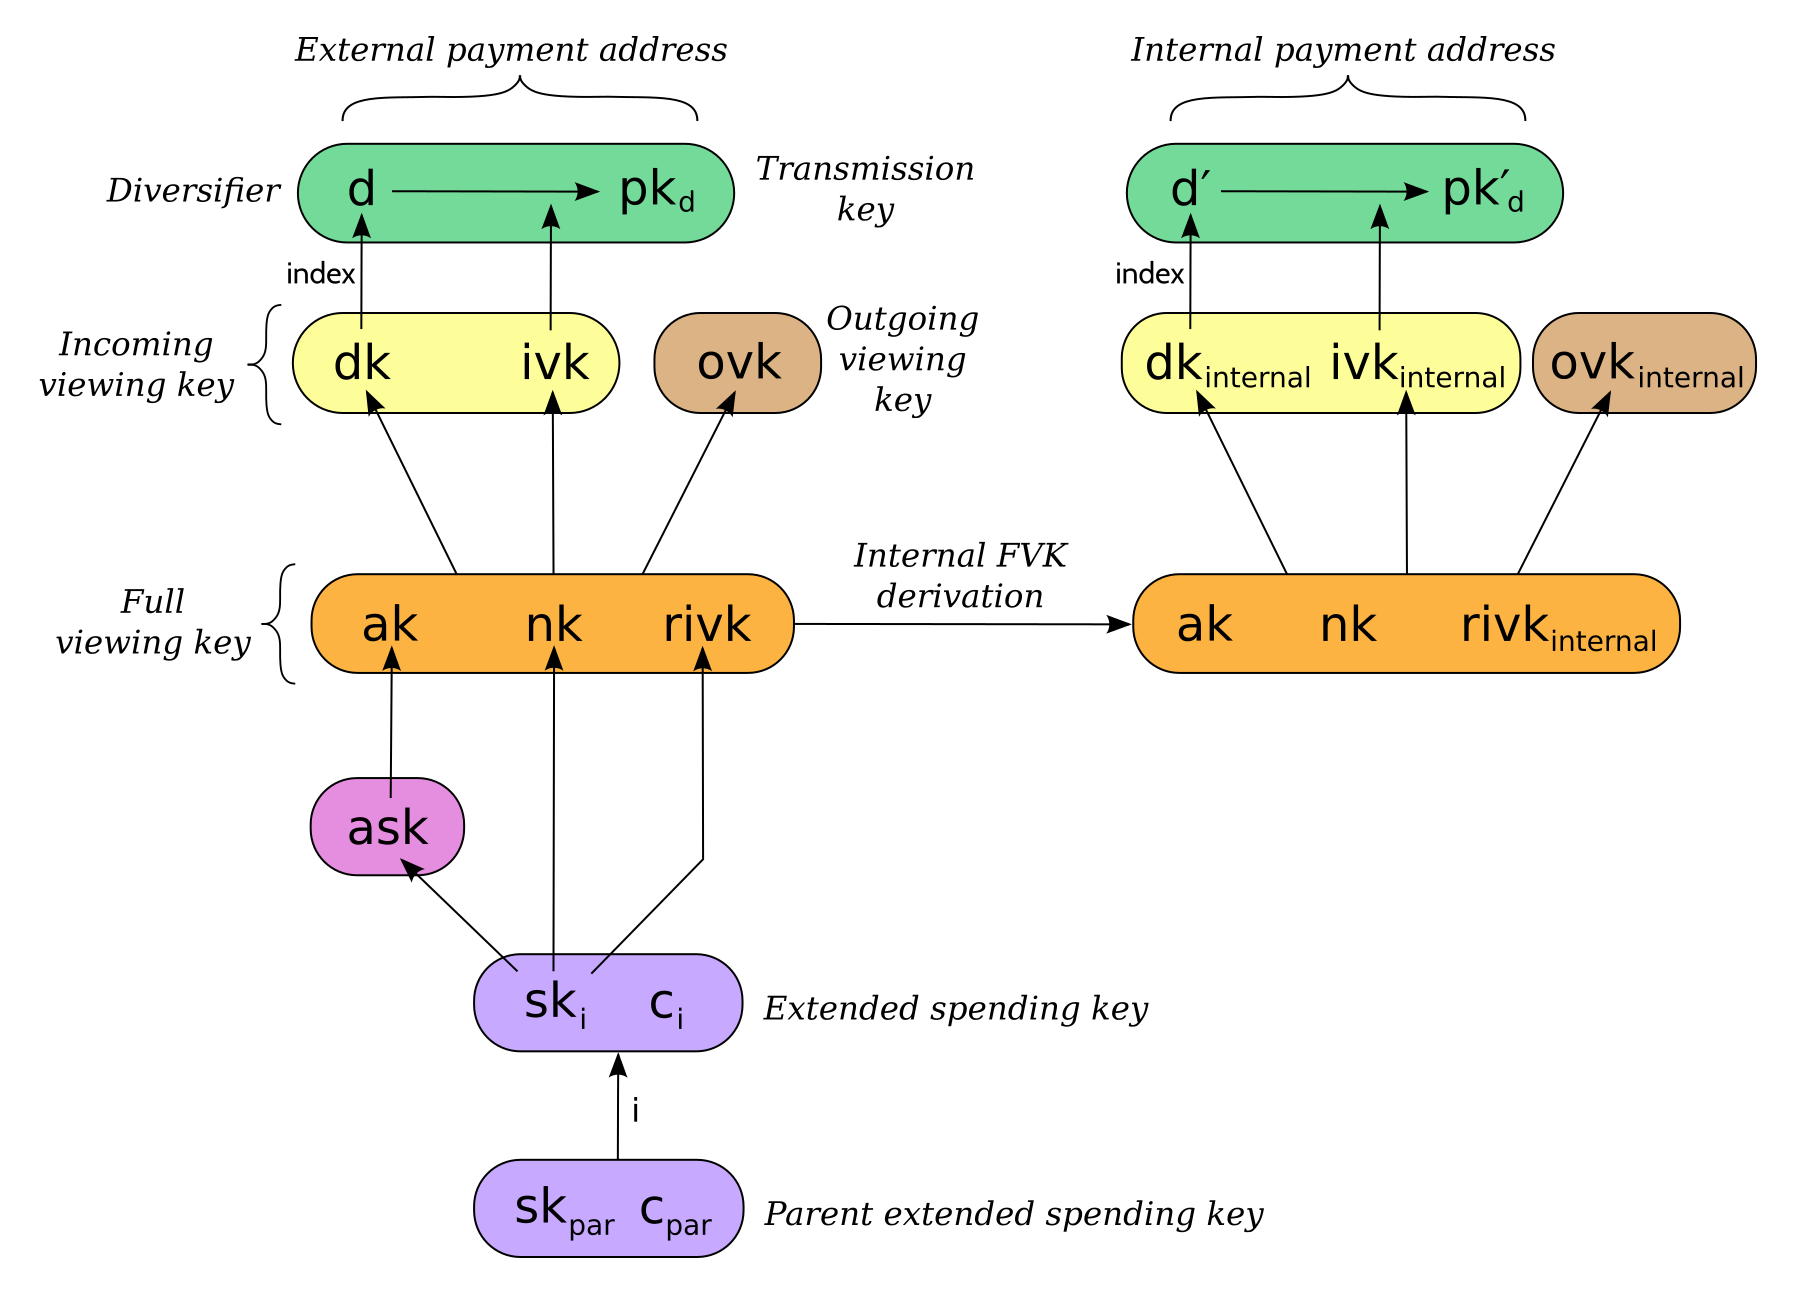
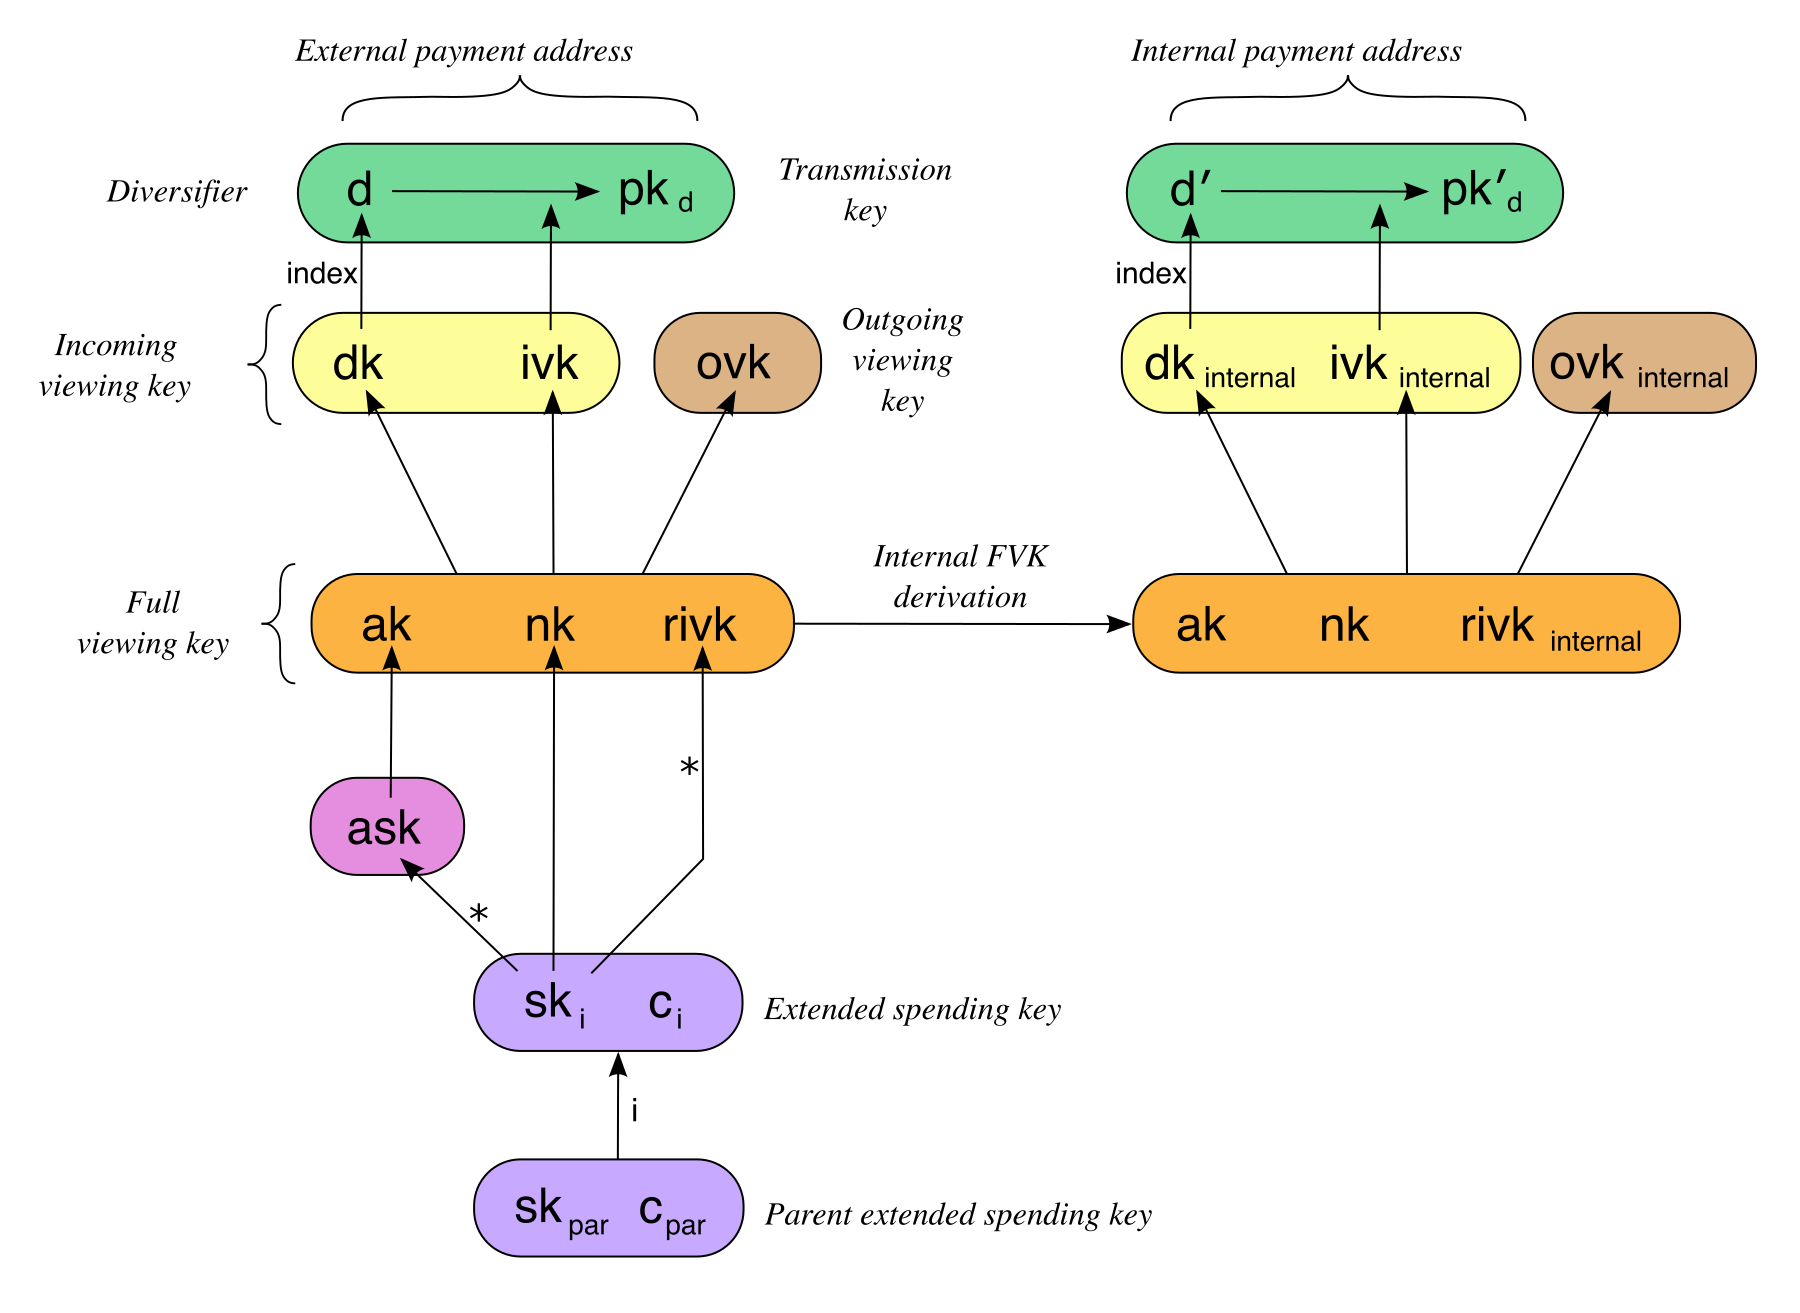
ZIP 32: mark the ask and rivk derivations as not the only possibility
Apply ZIP 2005's change: the sk → ask and sk → rivk arrows in the
Orchard internal key derivation diagram gain ∗ marks, copied verbatim
(element, style, and relative position) from the marks already added
to the key components diagram in the protocol spec; the two diagrams
share their arrow geometry. The note under the diagram explains that
other derivations are possible but may forfeit ZIP 2005 note recovery.

The PNG is regenerated from the SVG at its previous dimensions using
rsvg-convert rather than the original Inkscape-on-Linux export, whose
text layout differs subtly (outer-label size and subscript spacing);
re-exporting with the original pipeline would restore exact fidelity.

This completes the application of ZIP 2005's currently-specified
changes to the protocol spec and other ZIPs.

diff --git a/static/css/style.css b/static/css/style.css
@@ -201,6 +201,11 @@ pre:has(.mermaid) {
   padding-bottom: 1.5rem !important;
 }
 
+p.hanging-indent {
+  padding-left: 1.05em;
+  text-indent: -1.05em;
+}
+
 aside {
   display: flex;
   flex-direction: column;

diff --git a/zips/zip-0032.rst b/zips/zip-0032.rst
@@ -539,6 +539,16 @@ diagram:
 
     Diagram of Orchard internal key derivation, also showing derivation from the parent extended spending key
 
+.. class:: hanging-indent
+
+$\ast\,$ The derivations of $\mathsf{ask}$ and $\mathsf{rivk}$ shown in the diagram are
+not the only possibility. For further detail see § 4.2.3 ‘Orchard Key Components’ in the
+protocol specification [#protocol-orchardkeycomponents]_. However, if $\mathsf{ask}$,
+$\mathsf{ak}$, $\mathsf{nk}$, $\mathsf{rivk}$, and $\mathsf{rivk_{internal}}$ are not
+generated as in the diagram, then it may not be possible to recover the resulting notes
+as specified in ZIP 2005 [#zip-2005]_ in the event that attacks using quantum computers
+become practical.
+
 This method of deriving internal keys is applied to external keys that are children of the
 Account level. It was implemented in `zcashd` as part of support for ZIP 316 [#zip-0316]_.
 
